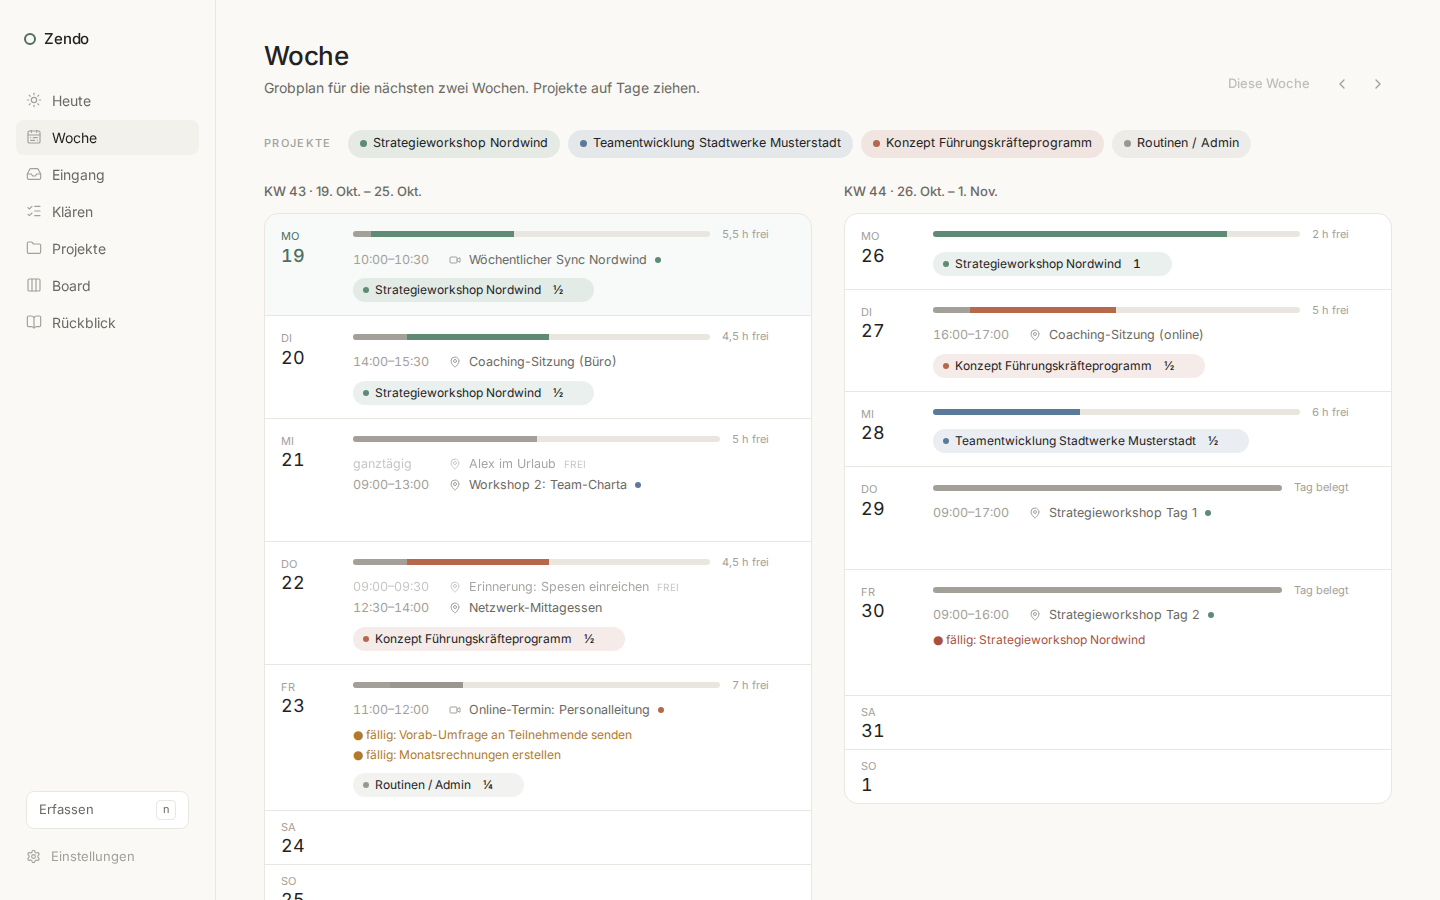
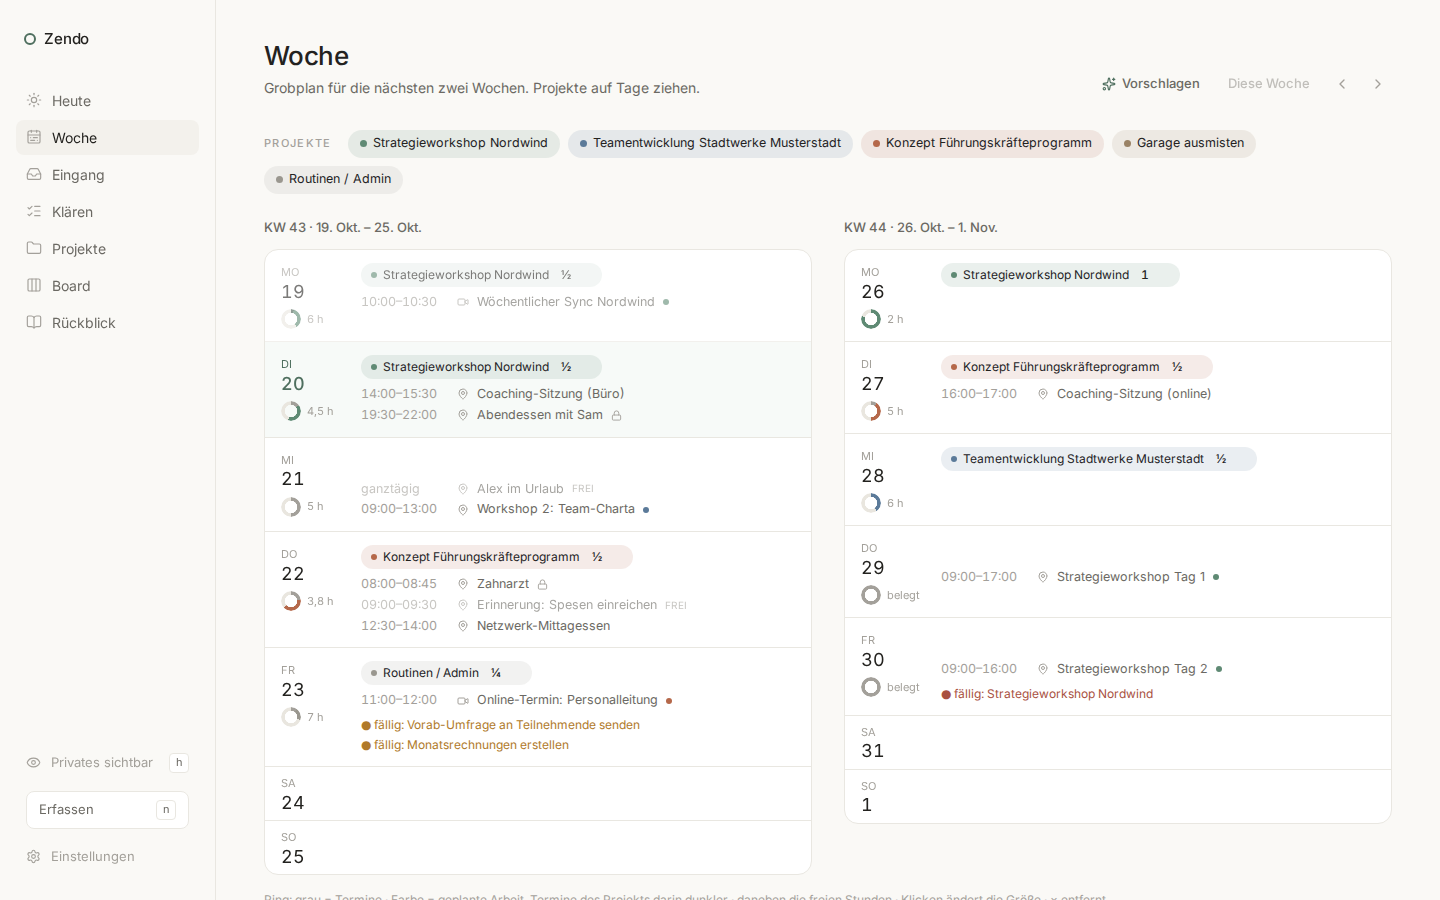
Week: load ring under the date, block chips on top, one add menu
The day row showed the plan twice: a thin capacity bar at the top and
the block chips in a row of their own at the bottom. Chosen from three
proposals (owner, 2026-10-20):

- Under the date a small ring shows the day's load (meetings grey,
  blocks in their project colour with the project's own meetings
  darker, the rest free) and the free hours next to it; a workshop day
  reads "full", an overplanned day gets an amber outline and the
  excess ("−4,3 h"). The bar is gone.
- The block chips move to the top of the day, where the bar was.
- One "+" next to the weekday replaces "Block" and "+": a menu with the
  projects for a ½-day block and "Add a meeting…". It needs no line of
  its own, so chip names stay whole on phones.
- No Join button in the week view any more (Today, focus mode, the
  project page and the meeting dialog keep it).

Legend, phone subtitle, requirements (WK-2, WK-8, CAL-9) and the
README screenshot updated.

diff --git a/src/pages/WeekPage.tsx b/src/pages/WeekPage.tsx
@@ -7,19 +7,19 @@ import type { ISODate, PlanBlock, Project } from '@/domain/types'
 import type { VisibleEvent } from '@/store/visible'
 import { BLOCK_SIZES, BLOCK_SIZE_LABEL } from '@/domain/types'
 import { addDaysISO, fmtDate, fmtHours, fmtTime, fmtWeekday, isoWeekNumber, nowHHMM, rangeISO, startOfWeekISO, todayISO } from '@/domain/dates'
-import { blocksOn, dayCapacity, eventsOn, isBlocking, isOverplanned, tasksDueOn, visibleBlocks } from '@/domain/selectors'
+import { blocksOn, dayCapacity, eventsOn, isBlocking, isOverplanned, tasksDueOn, visibleBlocks, type DayCapacity } from '@/domain/selectors'
 import { useStore } from '@/store/useStore'
 import { useVisibleBlocks, useVisibleEvents, useVisibleProjects, useVisibleTasks } from '@/store/visible'
 import { useUi } from '@/store/useUi'
 import { Draggable, Droppable, collision, useDndSensors } from '@/components/dnd'
 import { Button, IconButton, PageHeader, cx, useIsPhone } from '@/components/ui'
 import { ProjectDot, projectVars, useLocale, useProjectMap } from '@/components/TaskBits'
-import { JoinLink } from '@/components/JoinLink'
 import { type ProposedBlock, fitProposal } from '@/ai/week'
 import { aiErrorText } from '@/ai/errors'
 import { NotConfigured } from '@/sync/api'
 
 const CHORES = 'chores'
+const MEETING = 'meeting'
 
 type Proposed = ProposedBlock & { key: string }
 type ProposalState = { status: 'loading' } | { status: 'ready'; summary: string; blocks: Proposed[]; dropped: number } | { status: 'error'; message: string }
@@ -301,8 +301,6 @@ function DayRow({ date, today, proposed, onDropProposed }: { date: ISODate; toda
   const isToday = date === today
   const past = date < today
   const compact = !cap.isWorkDay && dayEvents.length === 0 && dayBlocks.length === 0
-  const total = Math.max(cap.workMinutes, cap.uncoveredMeetingMinutes + cap.blockMinutes, 1)
-  const over = isOverplanned(cap)
   const capOf = (id: string) => cap.blocks.find((b) => b.id === id)
   const cycleSize = (b: PlanBlock) => {
     const i = BLOCK_SIZES.indexOf(b.size)
@@ -311,52 +309,55 @@ function DayRow({ date, today, proposed, onDropProposed }: { date: ISODate; toda
 
   return (
     <Droppable id={`day:${date}`} className={cx('group flex gap-4 px-4 transition-colors', compact ? 'py-1.5' : 'py-3', past && 'opacity-60', isToday && 'bg-accent-soft/30')} overClassName="bg-accent-soft/70">
-      <Link to={`/today?date=${date}`} className="w-14 shrink-0 pt-0.5 hover:text-accent">
-        <div className={cx('text-[11px] uppercase tracking-wide', isToday ? 'text-accent' : 'text-ink-3')}>{fmtWeekday(date, locale)}</div>
-        <div className={cx('tnum text-[18px] leading-tight', isToday ? 'font-medium text-accent' : 'text-ink')}>{Number(date.slice(8, 10))}</div>
-      </Link>
-      <div className="min-w-0 flex-1">
+      <div className="relative w-16 shrink-0 pt-0.5">
+        {/* One "+" for a block or a meeting; no drag needed, so it works on phones and with the keyboard. */}
         {!compact && (
-          <div className="flex items-center gap-3">
-            <div className="flex h-1.5 flex-1 overflow-hidden rounded-full bg-surface-3">
-              {cap.uncoveredMeetingMinutes > 0 && <div className="h-full bg-ink-3" style={{ width: `${(cap.uncoveredMeetingMinutes / total) * 100}%` }} />}
-              {cap.blocks.map((b) => (
-                <div key={b.id} className="flex h-full" style={{ ...projectVars(b.projectId ? projectMap.get(b.projectId)?.color : null), width: `${(b.minutes / total) * 100}%` }}>
-                  {b.meetingMinutes > 0 && <div className="pc-dark h-full" style={{ width: `${(b.meetingMinutes / b.minutes) * 100}%` }} />}
-                  <div className="pc-dot h-full flex-1" />
-                </div>
-              ))}
-            </div>
-            <span className={cx('tnum shrink-0 text-[11px]', over ? 'text-amber' : 'text-ink-3')}>
-              {!cap.isWorkDay ? t('week.offDay') : over ? t('week.overplanned') : cap.fullDay ? t('week.fullDay') : t('week.free', { hours: fmtHours(cap.freeMinutes, locale) })}
-            </span>
-            {/* Non-drag way to add a block: works on phones and with the keyboard. */}
-            <label className="reveal relative text-ink-3 opacity-0 transition-opacity hover:text-ink focus-within:opacity-100 group-hover:opacity-100" title={t('week.addBlock')}>
-              <span className="sr-only">{t('week.addBlock')}</span>
-              <span aria-hidden className="flex h-5 items-center rounded-full border border-line px-1.5 text-[10px] uppercase tracking-wide">{t('week.block')}</span>
-              <select
-                className="absolute inset-0 cursor-pointer opacity-0"
-                value=""
-                onChange={(e) => {
-                  if (e.target.value) addBlock(date, e.target.value === CHORES ? null : e.target.value, 0.5)
-                }}
-              >
-                <option value="">{t('week.addBlock')}</option>
+          <label className="reveal absolute right-0 top-0 flex h-5 w-5 items-center justify-center rounded-full text-ink-3 opacity-0 transition-opacity hover:bg-surface-2 hover:text-ink focus-within:opacity-100 group-hover:opacity-100" title={t('week.add')}>
+            <span className="sr-only">{t('week.add')}</span>
+            <Plus size={14} aria-hidden />
+            <select
+              className="absolute inset-0 cursor-pointer opacity-0"
+              value=""
+              onChange={(e) => {
+                const v = e.target.value
+                if (v === MEETING) openEvent(null, { date })
+                else if (v) addBlock(date, v === CHORES ? null : v, 0.5)
+              }}
+            >
+              <option value="">{t('week.add')}</option>
+              <optgroup label={t('week.addBlock')}>
                 {activeProjects.map((p) => (
                   <option key={p.id} value={p.id}>
                     {p.name}
                   </option>
                 ))}
                 <option value={CHORES}>{t('week.chores')}</option>
-              </select>
-            </label>
-            <button type="button" onClick={() => openEvent(null, { date })} className="reveal text-ink-3 opacity-0 transition-opacity hover:text-ink group-hover:opacity-100" aria-label={t('week.addMeeting')}>
-              <Plus size={14} />
-            </button>
+              </optgroup>
+              <option value={MEETING}>{t('week.addMeeting')}</option>
+            </select>
+          </label>
+        )}
+        <Link to={`/today?date=${date}`} className="block hover:text-accent">
+          <div className={cx('text-[11px] uppercase tracking-wide', isToday ? 'text-accent' : 'text-ink-3')}>{fmtWeekday(date, locale)}</div>
+          <div className={cx('tnum text-[18px] leading-tight', isToday ? 'font-medium text-accent' : 'text-ink')}>{Number(date.slice(8, 10))}</div>
+        </Link>
+        {!compact && cap.isWorkDay && <DayLoad cap={cap} />}
+      </div>
+      <div className="min-w-0 flex-1">
+        {!compact && (
+          <div className="flex min-h-[24px] flex-wrap items-start gap-1.5">
+            {dayBlocks.map((b) => (
+              <Draggable key={b.id} id={`block:${b.id}`} className="max-w-full">
+                <BlockChip block={b} project={b.projectId ? (projectMap.get(b.projectId) ?? null) : null} onCycle={() => cycleSize(b)} onRemove={() => removeBlock(b.id)} absorbed={capOf(b.id)} />
+              </Draggable>
+            ))}
+            {proposed.map((b) => (
+              <ProposedChip key={b.key} block={b} project={b.projectId ? (activeProjects.find((p) => p.id === b.projectId) ?? null) : null} onRemove={() => onDropProposed(b.key)} />
+            ))}
           </div>
         )}
         {dayEvents.length > 0 && (
-          <ul className="mt-2 flex flex-col gap-0.5">
+          <ul className={cx('flex flex-col gap-0.5', !compact && 'mt-1.5')}>
             {dayEvents.map((e) => (
               <EventLine key={e.id} event={e} />
             ))}
@@ -376,20 +377,49 @@ function DayRow({ date, today, proposed, onDropProposed }: { date: ISODate; toda
             ))}
           </ul>
         )}
-        {!compact && (
-          <div className="mt-2 flex min-h-[26px] flex-wrap gap-1.5">
-            {dayBlocks.map((b) => (
-              <Draggable key={b.id} id={`block:${b.id}`} className="max-w-full">
-                <BlockChip block={b} project={b.projectId ? (projectMap.get(b.projectId) ?? null) : null} onCycle={() => cycleSize(b)} onRemove={() => removeBlock(b.id)} absorbed={capOf(b.id)} />
-              </Draggable>
-            ))}
-            {proposed.map((b) => (
-              <ProposedChip key={b.key} block={b} project={b.projectId ? (activeProjects.find((p) => p.id === b.projectId) ?? null) : null} onRemove={() => onDropProposed(b.key)} />
-            ))}
-          </div>
-        )}
       </div>
     </Droppable>
+  )
+}
+
+/**
+ * The day's load under the date: a small ring (meetings grey, planned blocks in their project colour with the
+ * project's own meetings darker, the rest free) and the free hours next to it; amber when overplanned.
+ */
+function DayLoad({ cap }: { cap: DayCapacity }) {
+  const { t } = useTranslation()
+  const locale = useLocale()
+  const projectMap = useProjectMap()
+  const used = cap.uncoveredMeetingMinutes + cap.blockMinutes
+  const total = Math.max(cap.workMinutes, used, 1)
+  const over = isOverplanned(cap)
+  const stops: string[] = []
+  let at = 0
+  const add = (color: string, minutes: number) => {
+    if (minutes <= 0) return
+    const to = at + (minutes / total) * 100
+    stops.push(`${color} ${at}% ${to}%`)
+    at = to
+  }
+  add('var(--ink-3)', cap.uncoveredMeetingMinutes)
+  for (const b of cap.blocks) {
+    const color = `var(--c-${(b.projectId && projectMap.get(b.projectId)?.color) || 'neutral'})`
+    add(`color-mix(in oklab, ${color} 60%, var(--ink))`, b.meetingMinutes)
+    add(color, b.minutes - b.meetingMinutes)
+  }
+  stops.push(`var(--surface-3) ${at}% 100%`)
+  // a ring, not a disc: the mask cuts the middle out, so today's tint and the drop highlight show through
+  const hole = 'radial-gradient(farthest-side, transparent calc(100% - 4px), #000 calc(100% - 3.5px))'
+  const title = over ? t('week.overplanned') : cap.fullDay ? t('week.fullDay') : t('week.free', { hours: fmtHours(cap.freeMinutes, locale) })
+  return (
+    <div className={cx('tnum mt-1.5 flex items-center gap-1.5 whitespace-nowrap text-[11px]', over ? 'text-amber' : 'text-ink-3')} title={title}>
+      {/* the outline sits on a wrapper: the mask would cut it off the ring itself */}
+      <span aria-hidden className={cx('shrink-0 rounded-full', over && 'outline outline-[1.5px] outline-offset-1 outline-amber')}>
+        <span className="block h-5 w-5 rounded-full" style={{ background: `conic-gradient(${stops.join(', ')})`, mask: hole, WebkitMask: hole }} />
+      </span>
+      <span className="sr-only">{title}</span>
+      <span aria-hidden>{over ? `−${fmtHours(used - cap.workMinutes, locale)}` : cap.fullDay ? t('week.fullDayShort') : fmtHours(cap.freeMinutes, locale)}</span>
+    </div>
   )
 }
 
@@ -435,7 +465,6 @@ function EventLine({ event }: { event: VisibleEvent }) {
         {!isBlocking(event) && <span className="shrink-0 text-[10px] uppercase tracking-wide text-ink-3">{t('event.freeTag')}</span>}
         {project && <ProjectDot color={project.color} size={6} />}
       </button>
-      <JoinLink event={event} />
     </li>
   )
 }

diff --git a/docs/requirements.md b/docs/requirements.md
@@ -93,10 +93,10 @@ Priority: **M** must, **S** should, **C** could.
 
 ### 5.7 Weekly planning (rolling two weeks)
 - **WK-1 (M) [P]** Two weeks side by side, one row per day, current week first; navigate forward/back; today highlighted.
-- **WK-2 (M) [P]** Each day shows: meetings (time, kind, title), deadlines (actions and projects), a capacity bar (meetings · planned blocks · free) and the free hours.
+- **WK-2 (M) [P]** Each day shows: meetings (time, kind, title), deadlines (actions and projects), its planned blocks as chips on top, and under the date a small load ring (meetings · planned blocks · free) with the free hours next to it, amber with the excess when overplanned (owner's choice from three proposals, 2026-10-20: one element instead of a bar plus a chip row). One "+" per day adds a ½-day block or a meeting without dragging (phones, keyboard).
 - **WK-3 (M) [P]** Drag a project (or "chores/admin") onto a day to create a ½-day block; click the block to cycle ¼ → ½ → ¾ → 1 day; drag blocks between days; remove.
 - **WK-4 (M) [P]** Over-capacity days are marked in amber.
-- **WK-8 (M) [P]** A block absorbs its project's meetings that day: the project consumes the larger of the block and its meetings (½ day + 1 h meeting = 4 h; ¼ day + 3 h of meetings = 3 h). Meetings without a project, or of projects without a block that day, count separately. The bar shows absorbed meeting time shaded inside the project segment; a block whose meetings exceed it shows the actual hours.
+- **WK-8 (M) [P]** A block absorbs its project's meetings that day: the project consumes the larger of the block and its meetings (½ day + 1 h meeting = 4 h; ¼ day + 3 h of meetings = 3 h). Meetings without a project, or of projects without a block that day, count separately. The ring shows absorbed meeting time darker inside the project's segment; a block whose meetings exceed it shows the actual hours.
 - **WK-5 (S) [ ]** Weekly objectives (max 3) stated for the week; shown on Today.
 - **WK-6 (M) [P]** Workshop rule: a workshop of five hours or more blocks the whole day; a shorter workshop blocks at least half a day. Everything else counts by its duration. (Buffer/travel blocks: later.)
 - **WK-7 (C) [P]** AI proposal of a week allocation from deadlines, open work and free capacity (AI-4).
@@ -134,7 +134,7 @@ Priority: **M** must, **S** should, **C** could.
 - **CAL-3 (S) [ ]** Fallback: published ICS feed polled by the local server (if app registration is not possible in the tenant).
 - **CAL-4 (C) [ ]** Write-back: create "focus" calendar entries from plan blocks so others see busy time.
 - **CAL-5 (S) [p]** Classify events by kind (online, in person, workshop, coaching) and link to projects; heuristics on import, editable.
-- **CAL-9 (S) [P]** One-click join for online meetings (owner's request, 2026-10-20): a Join button on the meeting in Today, Week, focus mode and the event dialog. The link comes from Outlook (`onlineMeeting.joinUrl` for Teams, else a Teams/Zoom/Webex/Meet link in location or body preview), from an ICS import (Outlook's Teams property, location, description) or from the event's meeting-link field; a meeting link typed into the location works too. On a computer Teams and Zoom open straight in the app (`msteams:`, `zoommtg:`), on phones the web link opens the app. Only http(s) links are ever opened; private meetings show no link while private items are hidden.
+- **CAL-9 (S) [P]** One-click join for online meetings (owner's request, 2026-10-20): a Join button on the meeting in Today, focus mode, the project page and the event dialog (not in Week: the owner does not need it there, 2026-10-20). The link comes from Outlook (`onlineMeeting.joinUrl` for Teams, else a Teams/Zoom/Webex/Meet link in location or body preview), from an ICS import (Outlook's Teams property, location, description) or from the event's meeting-link field; a meeting link typed into the location works too. On a computer Teams and Zoom open straight in the app (`msteams:`, `zoommtg:`), on phones the web link opens the app. Only http(s) links are ever opened; private meetings show no link while private items are hidden.
 - **CAL-10 (S) [P]** Series links (owner's decision, 2026-10-20): linking a meeting that belongs to a recurring Outlook series asks "only this meeting" or "all meetings in this series". A series link is stored on the project; it applies to every occurrence Zendo already has and to new occurrences as syncs bring them in. A single occurrence can be set differently and keeps that choice; choosing "all meetings in this series" again overrides such exceptions. One-off meetings get no question. Linking stays manual (no keyword suggestions); ICS imports have no series (first occurrence only).
 - **CAL-11 (S) [P]** Links survive a move: a meeting moved to another day keeps its project, kind and private flag. Sync matches by Outlook id plus date and, when that fails, by the Outlook id alone if it is unambiguous (multi-day meetings moved as a whole lose their overrides).
 - **CAL-12 (S) [P]** History: meetings linked to a project are kept for 12 months after they leave the sync window (last week … five weeks ahead), for reviews and later time tracking; unlinked meetings are dropped as before. A meeting deleted or cancelled in Outlook while still inside the window disappears.
